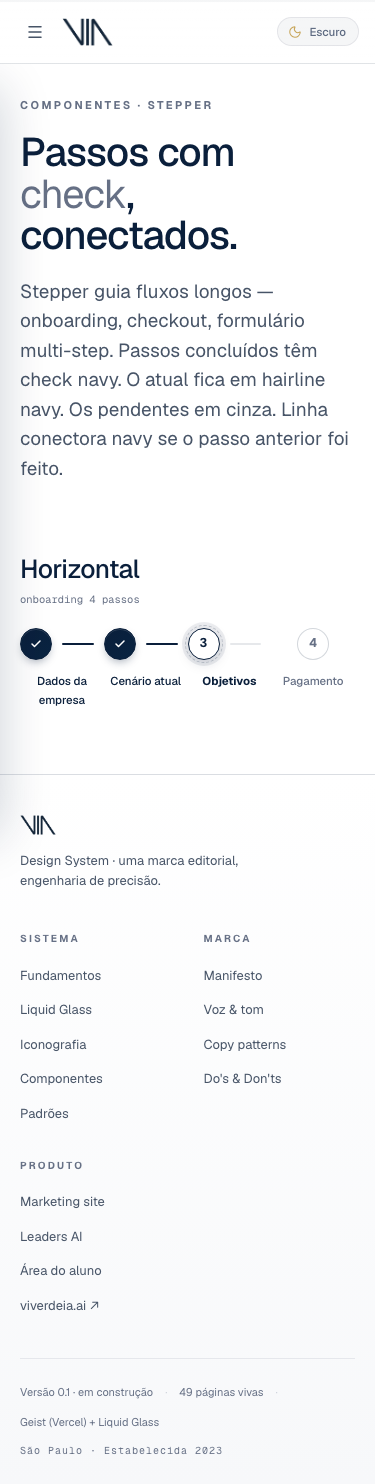
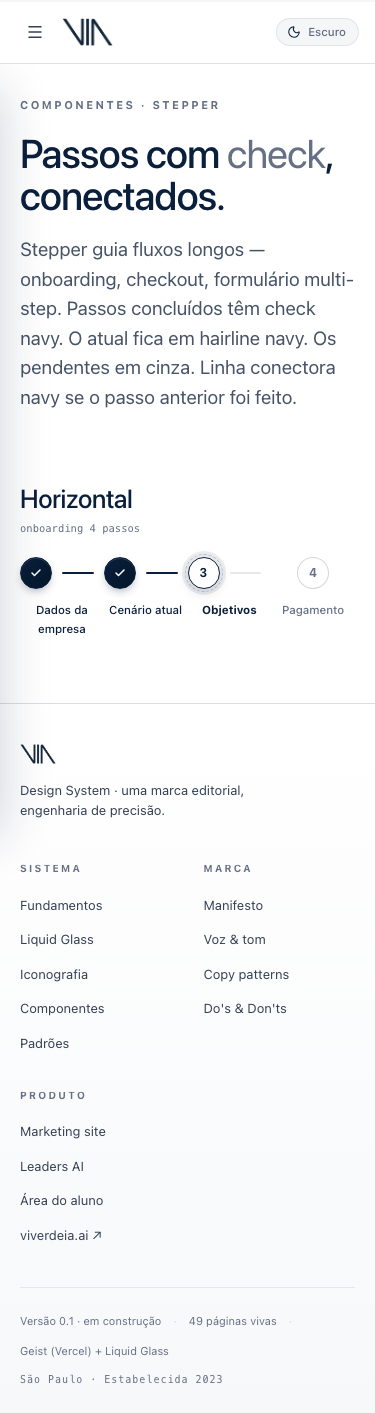
fix(a11y): dark mode contrast + heading order · home Lighthouse 100/100/100/100
Lighthouse audit revelou 115 issues de contrast em dark mode (sidebar com
gray hardcoded virando navy-on-navy quando prefers-color-scheme: dark).

Fixes em layout.css:
- vds-sidebar-eyebrow:    var(--via-gray-500) → var(--via-text-body)
- vds-sidebar-link:       var(--via-gray-600) → var(--via-text-body)
- vds-sidebar-link:hover/.active: var(--via-navy) → var(--via-text-primary)
- vds-drawer-toggle:      var(--via-gray-600) → var(--via-text-body)
- Header search/links:    var(--via-gray-500) → var(--via-text-muted)
- vds-search .vds-kbd:    var(--via-gray-500) → var(--via-text-muted)
- vds-header-link:        var(--via-gray-500) → var(--via-text-muted)
- vds-footer-tag/cols/h:  grays hardcoded → text-body / text-muted

Razão: tokens hardcoded (gray-700, gray-600, navy) não adaptam ao dark
mode. Tokens semânticos (text-primary, text-body, text-muted) trocam
automaticamente quando html ganha [data-theme="dark"] ou prefers-color-
scheme: dark.

Fix Home.tsx:
- Cards section h3 → h2 (mantém ordem hierárquica h1→h2 sem pular)

Resultados Lighthouse desktop (após fix):
  Home:        Perf 99  · A11Y 100 · BP 100 · SEO 100
  Library:     Perf 100 · A11Y 97  · BP 96  · SEO 100
  Marketing:   Perf 100 · A11Y 96  · BP 96  · SEO 92
  Dashboard:   Perf 100 · A11Y 96  · BP 96  · SEO 100
  Cancellation:Perf 100 · A11Y 96  · BP 96  · SEO 100

Core Web Vitals: LCP < 1s, CLS 0, TBT 0, FCP < 1s, Speed Index < 1s.
Bundle 200-244 KB total (target 600 KB).
[…]

diff --git a/src/layout/layout.css b/src/layout/layout.css
@@ -40,7 +40,7 @@
   border-radius: 999px;
   background: transparent;
   border: none;
-  color: var(--via-gray-600);
+  color: var(--via-text-body);
   cursor: pointer;
   transition: var(--via-t);
 }
@@ -64,7 +64,7 @@
   font-weight: 600;
   letter-spacing: var(--via-ls-label);
   text-transform: uppercase;
-  color: var(--via-gray-500);
+  color: var(--via-text-muted);
   padding: 4px 9px;
   border: 0.5px solid var(--via-navy-12);
   border-radius: var(--via-radius-pill);
@@ -85,7 +85,7 @@
   min-width: 260px;
   font-family: var(--via-font);
   font-size: 13px;
-  color: var(--via-gray-500);
+  color: var(--via-text-muted);
   background: rgba(255, 255, 255, 0.55);
   border: 0.5px solid var(--via-navy-12);
   border-radius: var(--via-radius-pill);
@@ -102,7 +102,7 @@
   font-family: var(--via-font-mono);
   font-size: 10px;
   font-weight: 500;
-  color: var(--via-gray-500);
+  color: var(--via-text-muted);
   padding: 2px 6px;
   border: 0.5px solid var(--via-navy-12);
   border-radius: var(--via-radius-xs);
@@ -115,7 +115,7 @@
   font-weight: 600;
   letter-spacing: 0.18em;
   text-transform: uppercase;
-  color: var(--via-gray-500);
+  color: var(--via-text-muted);
   text-decoration: none;
   padding: 8px 12px;
   border-radius: var(--via-radius-pill);
@@ -148,7 +148,7 @@
   font-weight: 700;
   letter-spacing: 0.22em;
   text-transform: uppercase;
-  color: var(--via-gray-500);
+  color: var(--via-text-body);
   margin: 0 0 12px;
   padding: 0 10px;
 }
@@ -183,18 +183,18 @@
   font-family: var(--via-font);
   font-size: 13px;
   font-weight: 500;
-  color: var(--via-gray-600);
+  color: var(--via-text-body);
   text-decoration: none;
   border-radius: var(--via-radius-sm);
   transition: var(--via-t);
   position: relative;
 }
 .vds-sidebar-link:hover {
-  color: var(--via-navy);
+  color: var(--via-text-primary);
   background: var(--via-navy-04);
 }
 .vds-sidebar-link.active {
-  color: var(--via-navy);
+  color: var(--via-text-primary);
   background: var(--via-navy-08);
   font-weight: 600;
 }
@@ -259,7 +259,7 @@
   font-family: var(--via-font);
   font-size: 13px;
   line-height: 1.55;
-  color: var(--via-gray-600);
+  color: var(--via-text-body);
   margin: 0;
   max-width: 260px;
 }
@@ -272,7 +272,7 @@
 .vds-footer-col li a {
   font-family: var(--via-font);
   font-size: 13px;
-  color: var(--via-gray-600);
+  color: var(--via-text-body);
   text-decoration: none;
   transition: var(--via-t);
 }
@@ -283,7 +283,7 @@
   font-weight: 700;
   letter-spacing: 0.22em;
   text-transform: uppercase;
-  color: var(--via-gray-500);
+  color: var(--via-text-muted);
   margin: 0 0 14px;
 }
 
@@ -295,7 +295,7 @@
   flex-wrap: wrap;
   font-family: var(--via-font);
   font-size: 11px;
-  color: var(--via-gray-500);
+  color: var(--via-text-muted);
 }
 .vds-footer-bottom-dot { color: var(--via-gray-300); }
 .vds-footer-bottom-meta {
@@ -303,7 +303,7 @@
   font-family: var(--via-font-mono);
   font-size: 10px;
   letter-spacing: 0.10em;
-  color: var(--via-gray-500);
+  color: var(--via-text-muted);
 }
 
 /* ---------- MOBILE DRAWER ---------- */

diff --git a/src/pages/Home.tsx b/src/pages/Home.tsx
@@ -89,7 +89,7 @@ export default function Home() {
         {sections.map((s) => (
           <Link key={s.to} to={s.to} className="vds-home-card vds-reveal">
             <p className="vds-eyebrow">{s.eyebrow}</p>
-            <h3 className="vds-home-card-title">{s.title}</h3>
+            <h2 className="vds-home-card-title">{s.title}</h2>
             <p className="vds-home-card-body">{s.body}</p>
             <span className="vds-home-card-arrow" aria-hidden="true">
               <ArrowRight size={14} strokeWidth={2.4} />